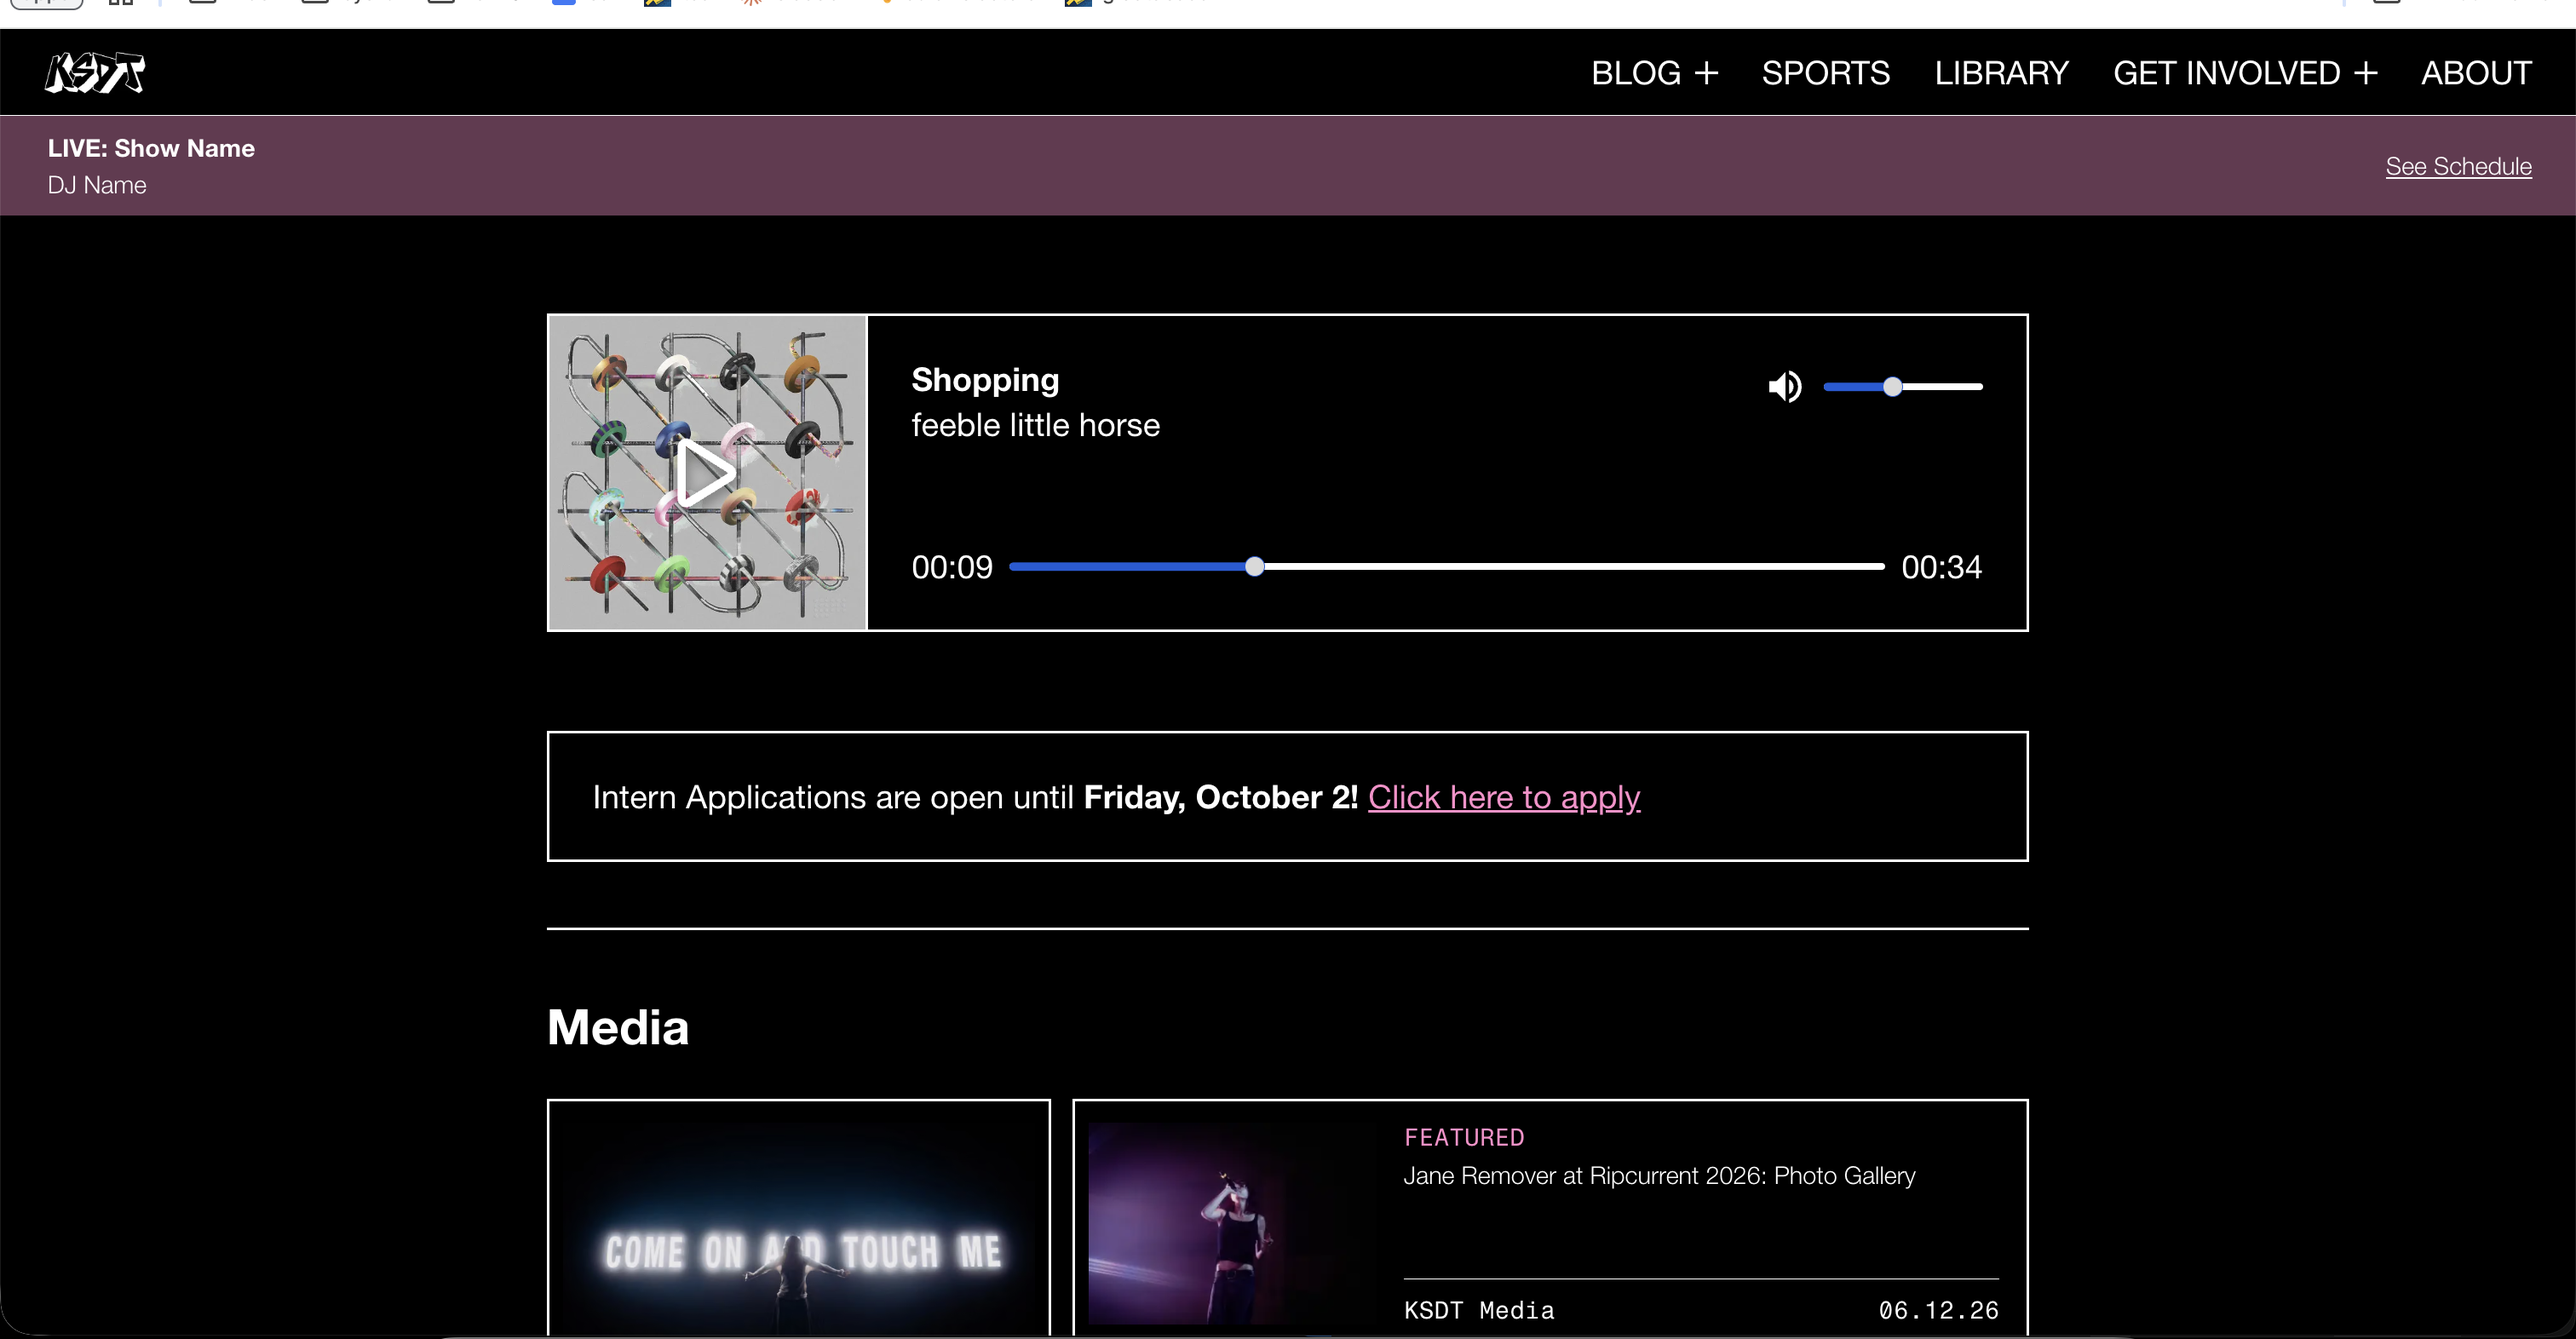
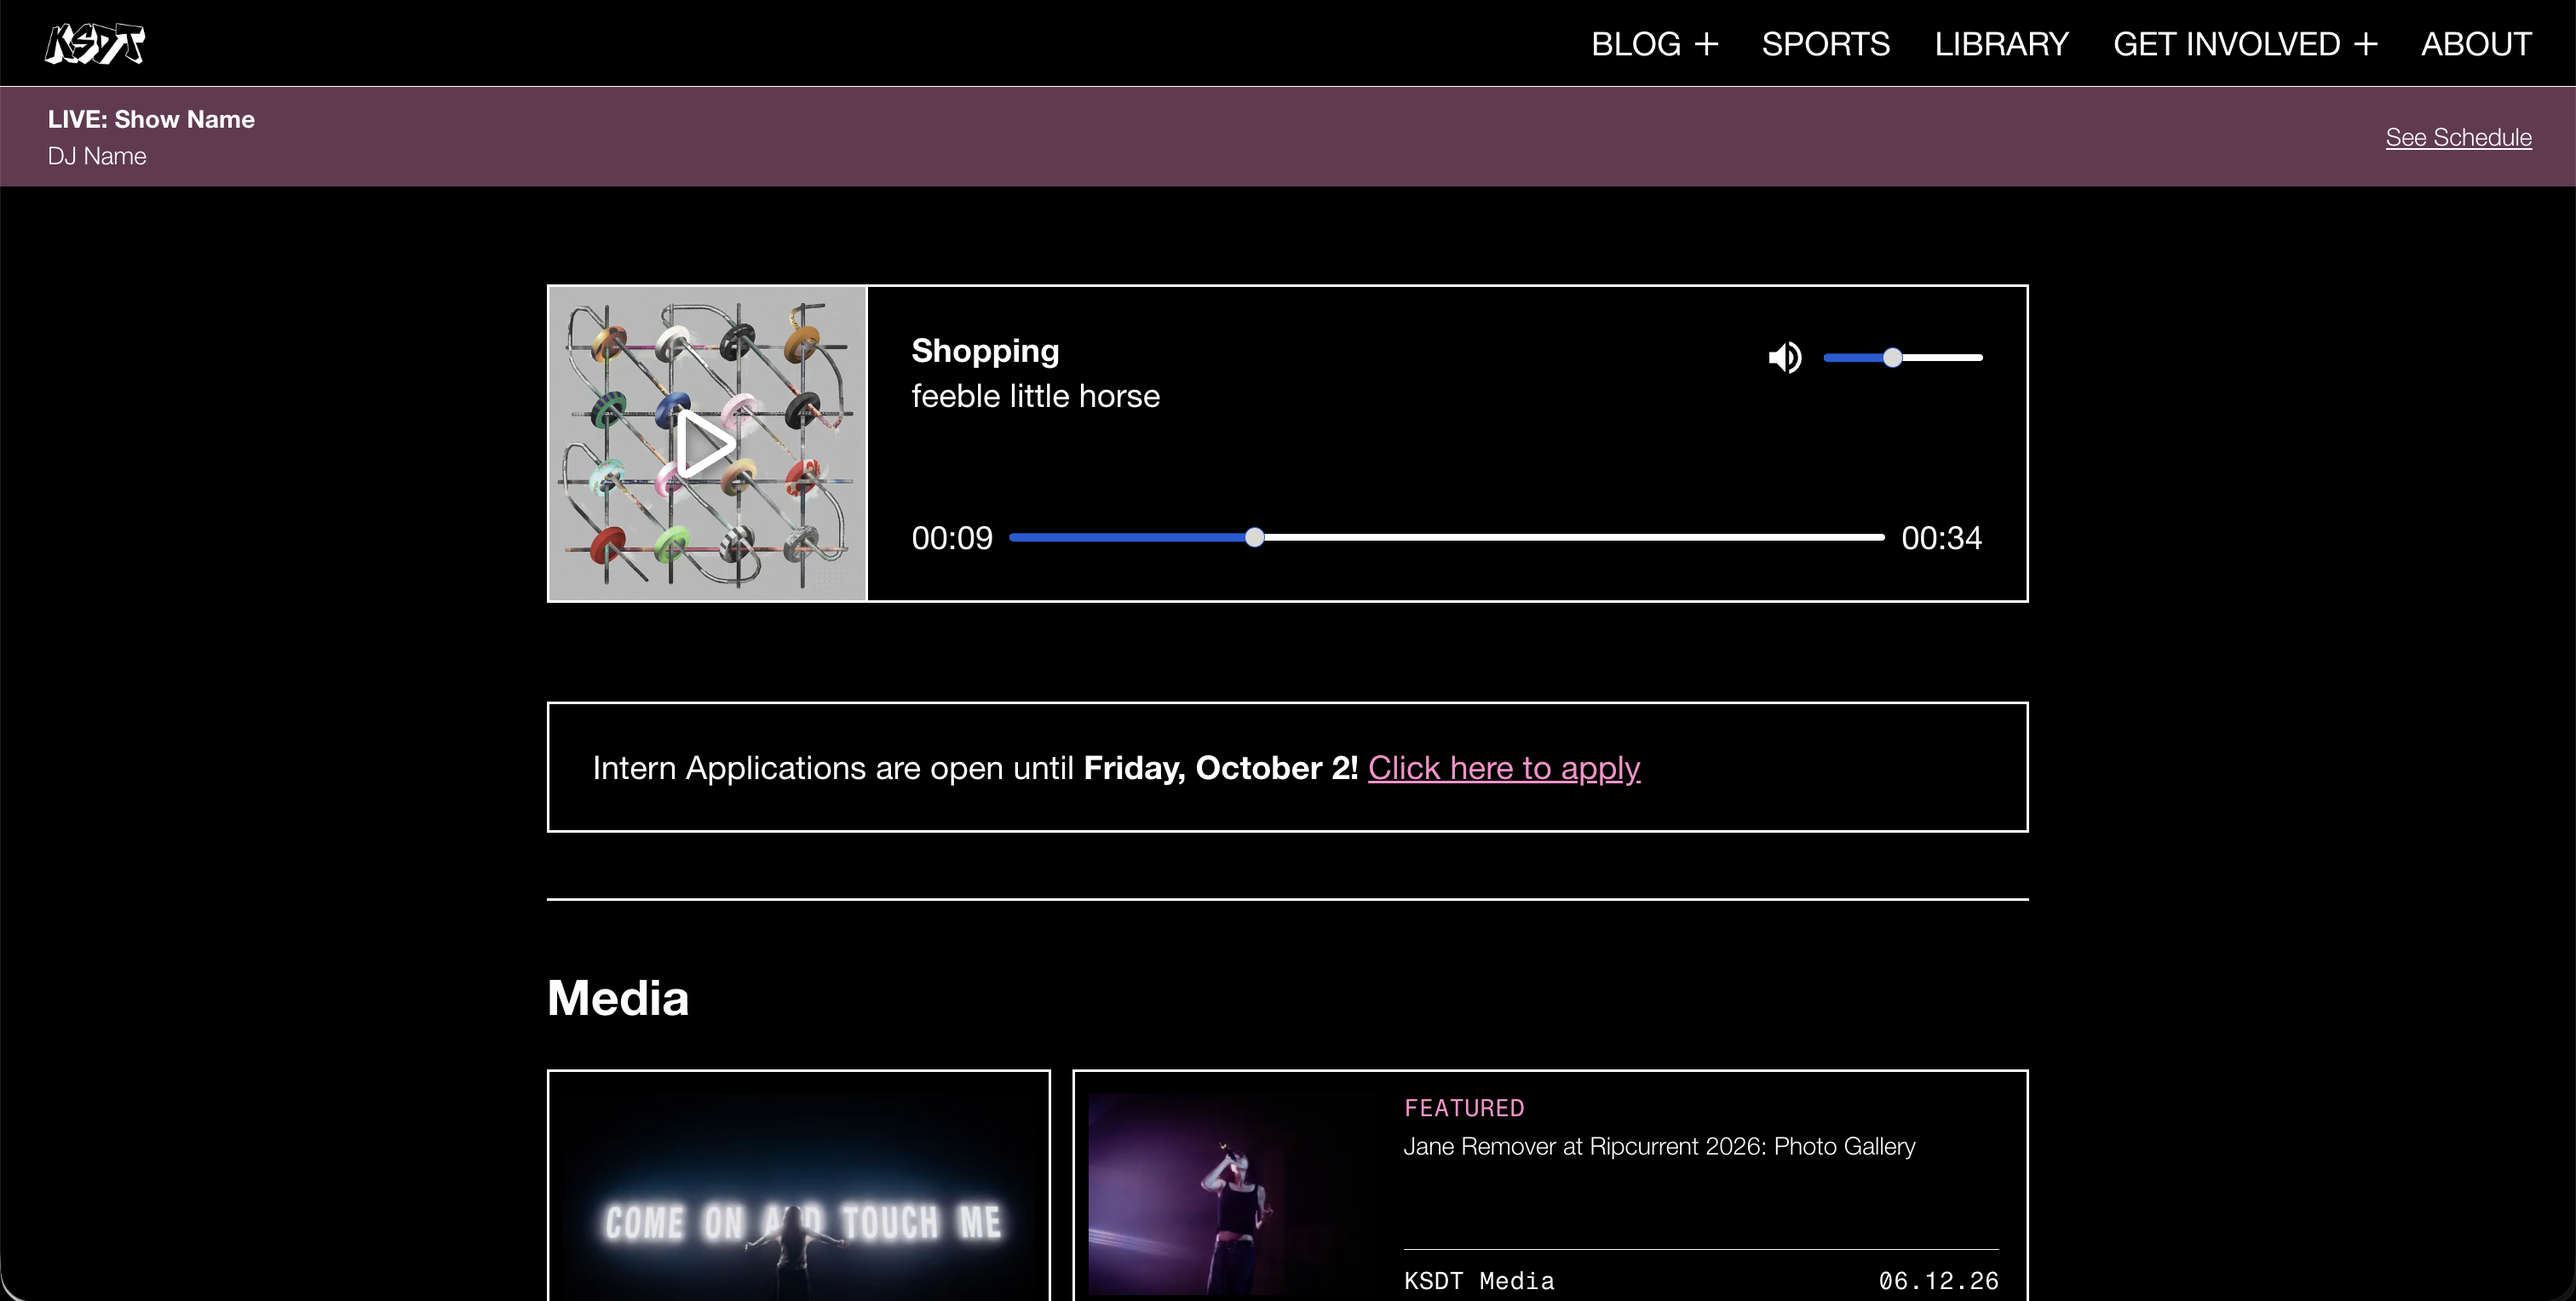
fixed images, project page layout and user journey. just need to update project content.

diff --git a/src/app/projects/[slug]/page.tsx b/src/app/projects/[slug]/page.tsx
@@ -7,35 +7,48 @@ export function generateStaticParams() {
   return projects.map((p) => ({ slug: p.slug }));
 }
 
-export default async function ProjectPage({ params }: { params: Promise<{ slug: string }> }) {  const { slug } = await params;
+export default async function ProjectPage({ params }: { params: Promise<{ slug: string }> }) {
+  const { slug } = await params;
   const project = getProject(slug);
   if (!project) notFound();
 
+  // Use the gallery if there is one, otherwise fall back to the cover image.
+  const shots = project.gallery ?? (project.image ? [{ src: project.image }] : []);
+
   return (
     <article>
-      <p className="text-xs text-neutral-400">
-        {[project.role, project.year].filter(Boolean).join(" · ")}
-      </p>
-      <h2 className="mt-1 text-4xl font-extralight">{project.title}</h2>
-
-      <div className="mt-6 aspect-[956/453] w-full overflow-hidden border border-black bg-white">
-        {project.image && (
-          // eslint-disable-next-line @next/next/no-img-element
-            <img src={asset(project.image)} alt={project.title} className="h-full w-full object-cover" />        )}
-      </div>
-
-      <p className="mt-6 max-w-xl text-base leading-relaxed">{project.summary}</p>
+      <h2 className="text-2xl">{project.title}</h2>
 
       {project.link && (
         <a
           href={project.link}
           target="_blank"
           rel="noreferrer"
-          className="mt-4 inline-block text-xs text-neutral-400 hover:text-black"
+          className="mt-4 inline-block text-sm underline underline-offset-2 hover:text-neutral-500"
         >
-          visit site ↗
+          {project.link.replace(/^https?:\/\//, "").replace(/\/$/, "")}
         </a>
       )}
+
+      <p className="mt-6 text-base leading-relaxed">{project.summary}</p>
+
+      {(project.role || project.year) && (
+        <p className="mt-3 text-xs text-neutral-400">
+          {[project.role, project.year].filter(Boolean).join(" · ")}
+        </p>
+      )}
+
+      <div className="mt-8">
+        {shots.map((shot) => (
+          <figure key={shot.src} className="border-t border-zinc-300 py-6">
+            {/* eslint-disable-next-line @next/next/no-img-element */}
+            <img src={asset(shot.src)} alt={shot.caption ?? project.title} className="block w-full" />
+            {shot.caption && (
+              <figcaption className="mt-2 text-xs text-neutral-400">{shot.caption}</figcaption>
+            )}
+          </figure>
+        ))}
+      </div>
     </article>
   );
 }

diff --git a/src/data/projects.ts b/src/data/projects.ts
@@ -1,13 +1,19 @@
 // Every project on the site comes from this list.
-// To add one: copy an entry, give it a unique slug, and put its image in /public/projects/.
+// To add one: copy an entry, give it a unique slug, and put its images in /public/projects/.
+export type Shot = {
+  src: string; // a file in /public, e.g. "/projects/my-project-home.png"
+  caption?: string; // optional line of text under the screenshot
+};
+
 export type Project = {
   slug: string; // used in the URL: /projects/<slug>
   title: string;
   summary: string;
   role?: string;
   year?: string;
-  image?: string; // a file in /public, e.g. "/projects/my-project.jpg" (leave out to show an empty frame)
+  image?: string; // cover image for the home page card
   link?: string; // live site, if there is one
+  gallery?: Shot[]; // screenshots shown on the project page, top to bottom
   featured?: boolean; // shows on the home page
 };
 
@@ -21,9 +27,13 @@ export const projects: Project[] = [
     year: "2026",
     image: "/projects/sydro-ss4.png",
     link: "https://sanysidroarchive.org",
+    gallery: [
+      { src: "/projects/sydro1.png" }
+
+    ],
     featured: true,
   },
-    {
+  {
     slug: "ksdt-radio",
     title: "KSDT Radio",
     summary:
@@ -32,8 +42,10 @@ export const projects: Project[] = [
     year: "2026",
     image: "/projects/ksdt-page.png",
     link: "https://ksdtradio.org/",
+    gallery: [{ src: "/projects/ksdt-page1.png" }],
     featured: true,
   },
+  /*
   {
     slug: "project-three",
     title: "Title of Project",
@@ -42,6 +54,7 @@ export const projects: Project[] = [
     year: "2026",
     featured: true,
   },
+  */
 ];
 
 export const featuredProjects = projects.filter((p) => p.featured);

diff --git a/src/components/Sidebar.tsx b/src/components/Sidebar.tsx
@@ -8,8 +8,7 @@ const links = [
   { href: "/", label: "work" },
   { href: "/projects/", label: "projects" },
   { href: "/resume/", label: "resume" },
-  { href: "/info/", label: "info" }
-  
+  { href: "/info/", label: "info" },
 ];
 
 function isActive(pathname: string, href: string) {
@@ -19,9 +18,11 @@ function isActive(pathname: string, href: string) {
 
 export default function Sidebar() {
   const pathname = usePathname();
+  // True on a single project's page, like /projects/ksdt-radio/
+  const onProjectPage = /^\/projects\/[^/]+/.test(pathname);
 
   return (
-   <aside className="w-full px-6 pt-10 md:fixed md:left-[21px] md:top-0 md:z-10 md:w-[360px] md:px-0 md:pt-2">
+    <aside className="w-full px-6 pt-10 md:fixed md:left-[21px] md:top-0 md:z-10 md:w-[360px] md:px-0 md:pt-2">
       <Link href="/" className="block">
         <h1 className="text-[length:45px] font-extralight leading-tight">Hernany Torres</h1>
       </Link>
@@ -45,6 +46,11 @@ export default function Sidebar() {
             {label}
           </Link>
         ))}
+        {onProjectPage && (
+          <Link href="/" className="text-neutral-400 underline underline-offset-2 hover:text-black">
+            ← back
+          </Link>
+        )}
       </nav>
 
       <hr className="mt-5 border-zinc-300 md:w-56" />

diff --git a/src/app/resume/page.tsx b/src/app/resume/page.tsx
@@ -17,7 +17,7 @@ const experience: Entry[] = [
     title: "Computer Engineer / Web Developer",
     org: "KSDT Radio",
     place: "UCSD",
-    dates: "Sep 2026 – Present",
+    dates: "May 2026 – Present",
     points: [
       "- develop the station’s website with a student dev team using Next.js and TypeScript, collaborating through GitHub",
       "- build pages from shared figma designs, translating UI mockups into responsive components",
